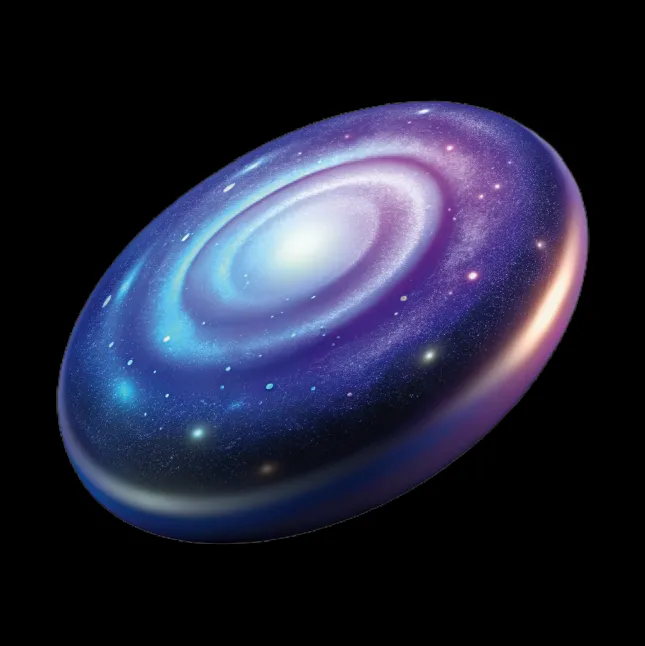
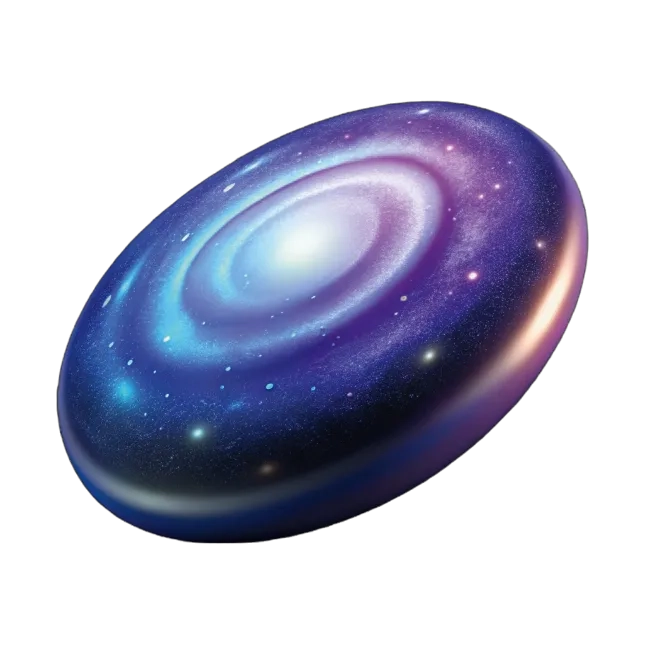
feat: промо-видео блоки на startuper-main + UI-правки главной
- Промо-видео «Биогенерация» с оверлеем (бейдж, описание, ссылка /startups/106/)
- Рекламный блок «Здесь может быть ваша реклама» перед футером
- Убрана подложка секции «Будьте в курсе новых звезд» на главной
- QR-код увеличен до 280px и отцентрирован
- Обновлена иконка категории «Все» (без чёрного фона)

diff --git a/static/accounts/css/startuper_main.css b/static/accounts/css/startuper_main.css
@@ -1626,3 +1626,227 @@ body {
     line-height: 1.4;
   }
 }
+
+/* ===== Promo Video Showcase ===== */
+.promo-video-showcase {
+  width: 100%;
+  max-width: 1303px;
+  margin: 60px auto 0;
+  padding: 0 20px;
+  box-sizing: border-box;
+}
+
+.promo-video-showcase__wrap {
+  width: 100%;
+  border-radius: 24px;
+  overflow: hidden;
+  position: relative;
+  aspect-ratio: 16 / 7;
+  background: rgba(255, 255, 255, 0.03);
+}
+
+.promo-video-showcase__video {
+  width: 100%;
+  height: 100%;
+  object-fit: cover;
+  display: block;
+}
+
+.promo-video-showcase__placeholder {
+  position: absolute;
+  inset: 0;
+  display: flex;
+  align-items: center;
+  justify-content: center;
+  background: linear-gradient(135deg, rgba(10, 20, 50, 0.6) 0%, rgba(5, 10, 30, 0.8) 100%);
+  border: 1px solid rgba(255, 255, 255, 0.08);
+  border-radius: 24px;
+}
+
+.promo-video-showcase__placeholder span {
+  color: rgba(255, 255, 255, 0.3);
+  font-family: Unbounded, sans-serif;
+  font-size: 18px;
+  font-weight: 300;
+  letter-spacing: 0.5px;
+}
+
+/* --- Video overlay with project info --- */
+.promo-video-showcase__overlay {
+  position: absolute;
+  bottom: 0;
+  left: 0;
+  right: 0;
+  padding: 32px 40px;
+  background: linear-gradient(0deg, rgba(0,0,0,0.85) 0%, rgba(0,0,0,0.4) 60%, transparent 100%);
+  display: flex;
+  flex-direction: column;
+  gap: 8px;
+  z-index: 2;
+}
+
+.promo-video-showcase__badge {
+  display: inline-block;
+  width: fit-content;
+  padding: 4px 12px;
+  background: rgba(255, 239, 43, 0.15);
+  border: 1px solid rgba(255, 239, 43, 0.4);
+  border-radius: 20px;
+  color: #ffef2b;
+  font-family: Unbounded, sans-serif;
+  font-size: 11px;
+  font-weight: 400;
+  letter-spacing: 0.5px;
+}
+
+.promo-video-showcase__title {
+  color: #fff;
+  font-family: Unbounded, sans-serif;
+  font-size: 28px;
+  font-weight: 600;
+  margin: 4px 0 0;
+}
+
+.promo-video-showcase__desc {
+  color: rgba(255, 255, 255, 0.7);
+  font-family: Unbounded, sans-serif;
+  font-size: 14px;
+  font-weight: 300;
+  line-height: 1.5;
+  max-width: 500px;
+  margin: 0;
+}
+
+.promo-video-showcase__link {
+  display: inline-block;
+  width: fit-content;
+  margin-top: 8px;
+  padding: 10px 24px;
+  background: linear-gradient(180deg, #ffef2b 0%, #f9f7d6 100%);
+  border-radius: 30px;
+  color: #0a0a1e;
+  font-family: Unbounded, sans-serif;
+  font-size: 13px;
+  font-weight: 500;
+  text-decoration: none;
+  transition: transform 0.2s, box-shadow 0.2s;
+}
+
+.promo-video-showcase__link:hover {
+  transform: translateY(-2px);
+  box-shadow: 0 4px 20px rgba(255, 239, 43, 0.3);
+}
+
+/* --- Ad placeholder block --- */
+.promo-video-showcase--ad .promo-video-showcase__wrap {
+  background: linear-gradient(135deg, #0a1628 0%, #0d2244 50%, #0a1628 100%);
+  border: 1px dashed rgba(255, 255, 255, 0.12);
+}
+
+.promo-video-showcase__ad-content {
+  position: absolute;
+  inset: 0;
+  display: flex;
+  flex-direction: column;
+  align-items: center;
+  justify-content: center;
+  gap: 16px;
+  padding: 40px;
+  text-align: center;
+}
+
+.promo-video-showcase__ad-icon {
+  width: 64px;
+  height: 64px;
+  opacity: 0.3;
+}
+
+.promo-video-showcase__ad-icon img {
+  width: 100%;
+  height: 100%;
+  object-fit: contain;
+}
+
+.promo-video-showcase__ad-title {
+  color: rgba(255, 255, 255, 0.5);
+  font-family: Unbounded, sans-serif;
+  font-size: 24px;
+  font-weight: 500;
+  margin: 0;
+  max-width: 600px;
+}
+
+.promo-video-showcase__ad-desc {
+  color: rgba(255, 255, 255, 0.3);
+  font-family: Unbounded, sans-serif;
+  font-size: 14px;
+  font-weight: 300;
+  line-height: 1.6;
+  max-width: 500px;
+  margin: 0;
+}
+
+.promo-video-showcase__ad-btn {
+  display: inline-block;
+  margin-top: 8px;
+  padding: 12px 32px;
+  border: 1px solid rgba(255, 255, 255, 0.2);
+  border-radius: 30px;
+  color: rgba(255, 255, 255, 0.6);
+  font-family: Unbounded, sans-serif;
+  font-size: 13px;
+  font-weight: 400;
+  text-decoration: none;
+  transition: border-color 0.2s, color 0.2s, background 0.2s;
+}
+
+.promo-video-showcase__ad-btn:hover {
+  border-color: rgba(255, 239, 43, 0.5);
+  color: #ffef2b;
+  background: rgba(255, 239, 43, 0.05);
+}
+
+/* --- Responsive --- */
+@media (max-width: 768px) {
+  .promo-video-showcase {
+    padding: 0 15px;
+  }
+  .promo-video-showcase__wrap {
+    border-radius: 16px;
+    aspect-ratio: 16 / 9;
+  }
+  .promo-video-showcase__overlay {
+    padding: 24px;
+  }
+  .promo-video-showcase__title {
+    font-size: 22px;
+  }
+  .promo-video-showcase__desc {
+    font-size: 12px;
+  }
+  .promo-video-showcase__ad-title {
+    font-size: 18px;
+  }
+  .promo-video-showcase__ad-desc {
+    font-size: 12px;
+  }
+}
+
+@media (max-width: 480px) {
+  .promo-video-showcase__wrap {
+    border-radius: 12px;
+    aspect-ratio: 9 / 10;
+  }
+  .promo-video-showcase__overlay {
+    padding: 20px;
+  }
+  .promo-video-showcase__title {
+    font-size: 18px;
+  }
+  .promo-video-showcase__badge {
+    font-size: 10px;
+  }
+  .promo-video-showcase__ad-title {
+    font-size: 16px;
+  }
+}

diff --git a/accounts/templates/accounts/startuper_main.html b/accounts/templates/accounts/startuper_main.html
@@ -57,6 +57,21 @@
             </div>
         </div>
     </div>
+
+    <div class="promo-video-showcase">
+        <div class="promo-video-showcase__wrap">
+            <video class="promo-video-showcase__video" autoplay muted loop playsinline preload="metadata">
+                <source src="https://storage.yandexcloud.net/1-bucket-for-startup-platform1/%D0%A0%D0%B5%D0%BA%D0%BB%D0%B0%D0%BC%D0%B0%20%D0%BD%D0%B0%20GI.mp4" type="video/mp4">
+            </video>
+            <div class="promo-video-showcase__overlay">
+                <div class="promo-video-showcase__badge">Проект на платформе</div>
+                <h3 class="promo-video-showcase__title">Биогенерация</h3>
+                <p class="promo-video-showcase__desc">Инновационная технология переработки органических отходов в биогаз и удобрения</p>
+                <a href="/startups/106/" class="promo-video-showcase__link">Подробнее о проекте →</a>
+            </div>
+        </div>
+    </div>
+
     <div class="journey-start-wrapper">
         <div class="chat-header">
             <h2 class="chat-header__title">Чат</h2>
@@ -439,6 +454,19 @@
         </div>
     </div>
 </div>
+
+    <div class="promo-video-showcase promo-video-showcase--ad">
+        <div class="promo-video-showcase__wrap">
+            <div class="promo-video-showcase__ad-content">
+                <div class="promo-video-showcase__ad-icon">
+                    <img src="{% static 'accounts/images/planetary_system/gi.svg' %}" alt="GI">
+                </div>
+                <h3 class="promo-video-showcase__ad-title">Здесь может быть реклама вашего проекта</h3>
+                <p class="promo-video-showcase__ad-desc">Разместите промо-видео вашего стартапа на платформе Great Ideas и привлеките внимание инвесторов</p>
+                <a href="https://t.me/yourgreatideas" target="_blank" class="promo-video-showcase__ad-btn">Связаться с нами</a>
+            </div>
+        </div>
+    </div>
 
 </div>
 

diff --git a/static/accounts/css/main.css b/static/accounts/css/main.css
@@ -2353,37 +2353,12 @@ body > main.content::after {
   width: 1303px;
   height: 576px;
   position: relative;
-  background-color: black;
-  box-shadow: 6px 6px 10px rgb(0 0 0 / 25%);
   overflow: hidden;
-  border-radius: 20px;
-  background-size: cover;
-  background-position: center;
-}
-.featured10.bg-loaded {
-  background-image: url('../images/main_page/10block_bg.webp');
 }
 
-.subscription-bg-blur-1 {
-  width: 854px;
-  height: 854px;
-  left: 1013px;
-  top: -39px;
-  position: absolute;
-  background: rgb(97 165 255 / 45%);
-  border-radius: 9999px;
-  filter: blur(250px);
-}
-
+.subscription-bg-blur-1,
 .subscription-bg-blur-2 {
-  width: 590px;
-  height: 590px;
-  left: -83px;
-  top: -295px;
-  position: absolute;
-  background: #004e9f;
-  border-radius: 9999px;
-  filter: blur(250px);
+  display: none;
 }
 
 .subscription-form-wrapper {
@@ -2563,13 +2538,13 @@ body > main.content::after {
 }
 
 .subscription-bonus {
-  left: 810px;
-  top: 350px;
   position: absolute;
+  left: 50%;
+  bottom: 30px;
+  transform: translateX(-50%);
   display: flex;
-  justify-content: flex-start;
-  align-items: flex-end;
-  gap: 17px;
+  justify-content: center;
+  align-items: center;
 }
 
 .bonus-text-content {
@@ -2601,14 +2576,15 @@ body > main.content::after {
 }
 
 .bonus-image-placeholder {
-  width: 169px;
-  height: 169px;
+  width: 280px;
+  height: 280px;
   background: white;
-  border-radius: 10px;
+  border-radius: 16px;
   display: flex;
   align-items: center;
   justify-content: center;
   overflow: hidden;
+  padding: 12px;
 }
 
 .bonus-image-placeholder img {
